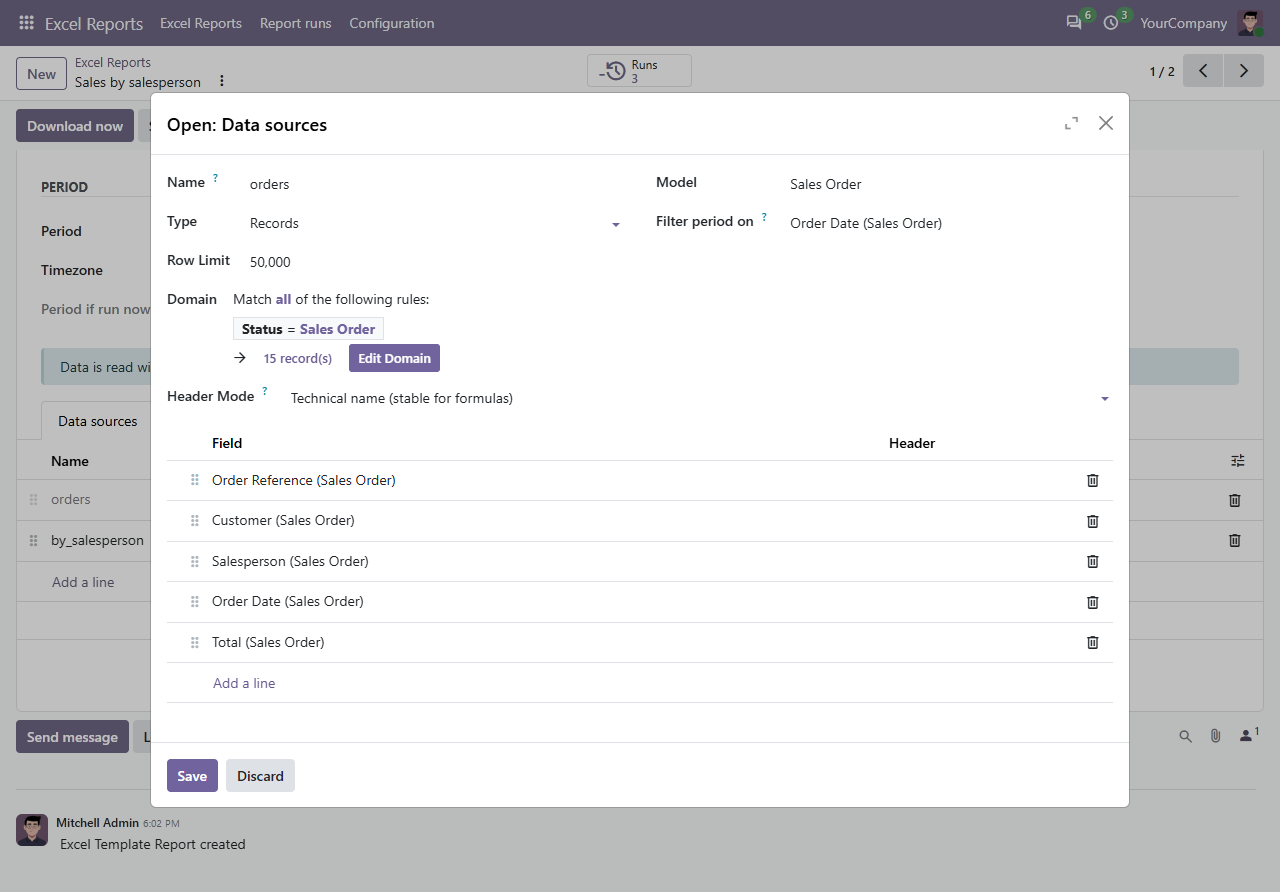
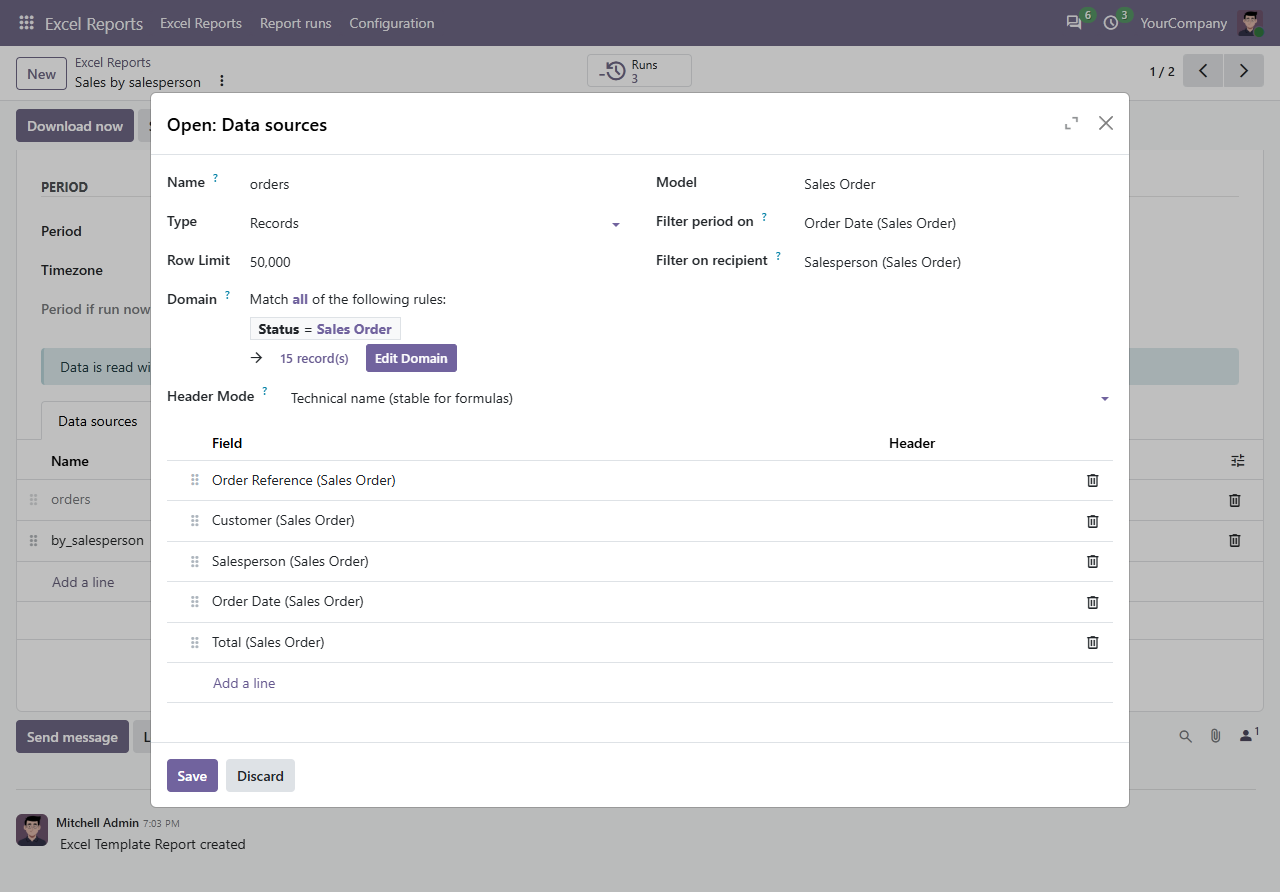
[IMP] 1.1: per-recipient files, Slack and Microsoft Teams

diff --git a/xlsx_template_report/models/xlsx_report.py b/xlsx_template_report/models/xlsx_report.py
@@ -18,6 +18,9 @@ XLSX_MIMETYPE = "application/vnd.openxmlformats-officedocument.spreadsheetml.she
 GROUP_USER = "xlsx_template_report.group_xlsx_report_user"
 GROUP_MANAGER = "xlsx_template_report.group_xlsx_report_manager"
 GROUP_SQL = "xlsx_template_report.group_xlsx_report_sql"
+# Context keys set while rendering a file for one recipient (used by the Pro addon).
+RECIPIENT_PARTNER_KEY = "xlsx_recipient_partner_id"
+RECIPIENT_USER_KEY = "xlsx_recipient_user_id"
 
 WEEKDAYS = [("0", "Monday"), ("1", "Tuesday"), ("2", "Wednesday"), ("3", "Thursday"),
             ("4", "Friday"), ("5", "Saturday"), ("6", "Sunday")]
@@ -152,19 +155,29 @@ class XlsxReport(models.Model):
                                      week_start=int(self.week_start or 0),
                                      n_days=self.period_days or 7)
 
-    def _get_data_env(self):
-        """Environment used to read data: the owner's rights, never superuser."""
+    def _get_data_env(self, recipient=None):
+        """Environment used to read data: the owner's rights, never superuser.
+
+        ``recipient`` (a ``res.partner``) only adds its ids to the context, so data
+        source domains can filter on ``recipient_partner_id`` / ``recipient_user_id``.
+        It never grants more rights than the owner has.
+        """
         self.ensure_one()
         owner = self.owner_id
         companies = (self.company_ids or self.company_id) & owner.company_ids
         if not companies:
             raise UserError(_("The 'Run as' user has no access to the selected companies."))
         main_company = self.company_id if self.company_id in companies else companies[0]
-        return self.env(
-            user=owner.id, su=False,
-            context=dict(self.env.context, tz=self.timezone, lang=owner.lang,
-                         allowed_company_ids=[main_company.id] + (companies - main_company).ids),
-        )
+        context = dict(self.env.context, tz=self.timezone, lang=owner.lang,
+                       allowed_company_ids=[main_company.id] + (companies - main_company).ids)
+        context.pop(RECIPIENT_PARTNER_KEY, None)
+        context.pop(RECIPIENT_USER_KEY, None)
+        if recipient:
+            user = self.env["res.users"].sudo().with_context(active_test=False).search(
+                [("partner_id", "=", recipient.id)], limit=1)
+            context[RECIPIENT_PARTNER_KEY] = recipient.id
+            context[RECIPIENT_USER_KEY] = user.id or False
+        return self.env(user=owner.id, su=False, context=context)
 
     def _build_filename(self, period):
         self.ensure_one()
@@ -183,13 +196,17 @@ class XlsxReport(models.Model):
             name = name.replace(char, "-")
         return name.strip()[:150] + ".xlsx"
 
-    def _render(self):
-        """Return ``(content, filename, row_count, warnings)``."""
+    def _render(self, recipient=None):
+        """Return ``(content, filename, row_count, warnings)``.
+
+        ``recipient`` (a ``res.partner``): render the file for that person only,
+        see :meth:`_get_data_env`.
+        """
         self.ensure_one()
         if not self.source_ids and not self.template:
             raise UserError(_("Add a template or at least one data source."))
         period = self._get_period()
-        data_env = self._get_data_env()
+        data_env = self._get_data_env(recipient)
         tables, row_count = {}, 0
         for source in self.source_ids.sorted("sequence"):
             data = source._fetch(data_env, period)
@@ -205,6 +222,7 @@ class XlsxReport(models.Model):
             "period_label": period.label,
             "generated_at": datetime.now(tz).replace(tzinfo=None, microsecond=0),
             "run_as": self.owner_id.name,
+            "recipient_name": recipient.sudo().name if recipient else "",
         }
         for name, data in tables.items():
             values["%s_count" % name] = len(data.rows)

diff --git a/xlsx_template_report/models/xlsx_report_source.py b/xlsx_template_report/models/xlsx_report_source.py
@@ -9,7 +9,7 @@ from odoo.exceptions import AccessError, UserError, ValidationError
 from odoo.tools.safe_eval import safe_eval
 
 from .. import engine
-from .xlsx_report import GROUP_SQL
+from .xlsx_report import GROUP_SQL, RECIPIENT_PARTNER_KEY, RECIPIENT_USER_KEY
 
 UNSUPPORTED_FIELD_TYPES = ("binary", "image", "properties", "properties_definition", "json")
 SQL_START_RE = re.compile(r"^\s*(select|with)\b", re.IGNORECASE)
@@ -34,7 +34,10 @@ class XlsxReportSource(models.Model):
     model_id = fields.Many2one("ir.model", string="Model", ondelete="cascade",
                                domain=[("transient", "=", False)])
     model_name = fields.Char(related="model_id.model", string="Model name")
-    domain = fields.Char(default="[]")
+    domain = fields.Char(
+        default="[]",
+        help="Variables: uid, user, date_from, date_to, company_ids, and for per-recipient "
+             "delivery (Pro) recipient_partner_id, recipient_user_id.")
     date_field_id = fields.Many2one(
         "ir.model.fields", string="Filter period on",
         domain="[('model_id', '=', model_id), ('ttype', 'in', ('date', 'datetime')), ('store', '=', True)]",
@@ -63,7 +66,8 @@ class XlsxReportSource(models.Model):
 
     sql_query = fields.Text(
         groups=GROUP_SQL,
-        help="Read-only SELECT. Parameters: %(date_from)s, %(date_to)s, %(company_ids)s. "
+        help="Read-only SELECT. Parameters: %(date_from)s, %(date_to)s, %(company_ids)s, "
+             "%(recipient_partner_id)s, %(recipient_user_id)s (NULL unless per-recipient). "
              "Write a literal % as %%. SQL ignores record rules: anyone receiving the report "
              "sees everything the query returns.")
     row_limit = fields.Integer(default=50000, required=True)
@@ -145,6 +149,10 @@ class XlsxReportSource(models.Model):
             "date_from": period.date_from,
             "date_to": period.date_to,
             "company_ids": Model.env.companies.ids,
+            # Per-recipient reports (Pro): ids of the person the file is for,
+            # False when the report is rendered for everyone.
+            "recipient_partner_id": Model.env.context.get(RECIPIENT_PARTNER_KEY) or False,
+            "recipient_user_id": Model.env.context.get(RECIPIENT_USER_KEY) or False,
             "datetime": datetime,
             "timedelta": timedelta,
         }
@@ -258,6 +266,8 @@ class XlsxReportSource(models.Model):
             "date_from": period.date_from,
             "date_to": period.date_to,
             "company_ids": tuple(env.companies.ids) or (0,),
+            "recipient_partner_id": env.context.get(RECIPIENT_PARTNER_KEY) or None,
+            "recipient_user_id": env.context.get(RECIPIENT_USER_KEY) or None,
         }
         # A separate cursor so the READ ONLY transaction and the timeout never
         # affect the main transaction. PostgreSQL itself rejects any write.

diff --git a/xlsx_template_report/models/compat.py b/xlsx_template_report/models/compat.py
@@ -28,6 +28,20 @@ def binary_bytes(value):
     return base64.b64decode(value)
 
 
+def attachment_bytes(attachment):
+    """Content of an ``ir.attachment``.
+
+    Unlike other Binary fields, ``raw`` is already raw bytes on Odoo <= 19 (never
+    base64), so do not use :func:`binary_bytes` for it. Odoo 20 wraps it in a
+    ``BinaryValue``.
+    """
+    value = attachment.raw
+    if not value:
+        return b""
+    content = getattr(value, "content", None)
+    return bytes(content if content is not None else value)
+
+
 def get_config_str(env, key):
     params = env["ir.config_parameter"].sudo()
     if hasattr(params, "get_str"):  # Odoo 20

diff --git a/xlsx_template_report/__manifest__.py b/xlsx_template_report/__manifest__.py
@@ -3,7 +3,7 @@
     "name": "Excel Template Reports",
     "summary": "Design reports in your own Excel file: Odoo fills in the data (free). "
                "Scheduling and Email/Telegram delivery: Excel Template Reports Pro",
-    "version": "20.0.1.0.0",
+    "version": "20.0.1.1.0",
     "category": "Productivity",
     "author": "Gray Bob",
     "support": "gray.wolf1290@gmail.com",
